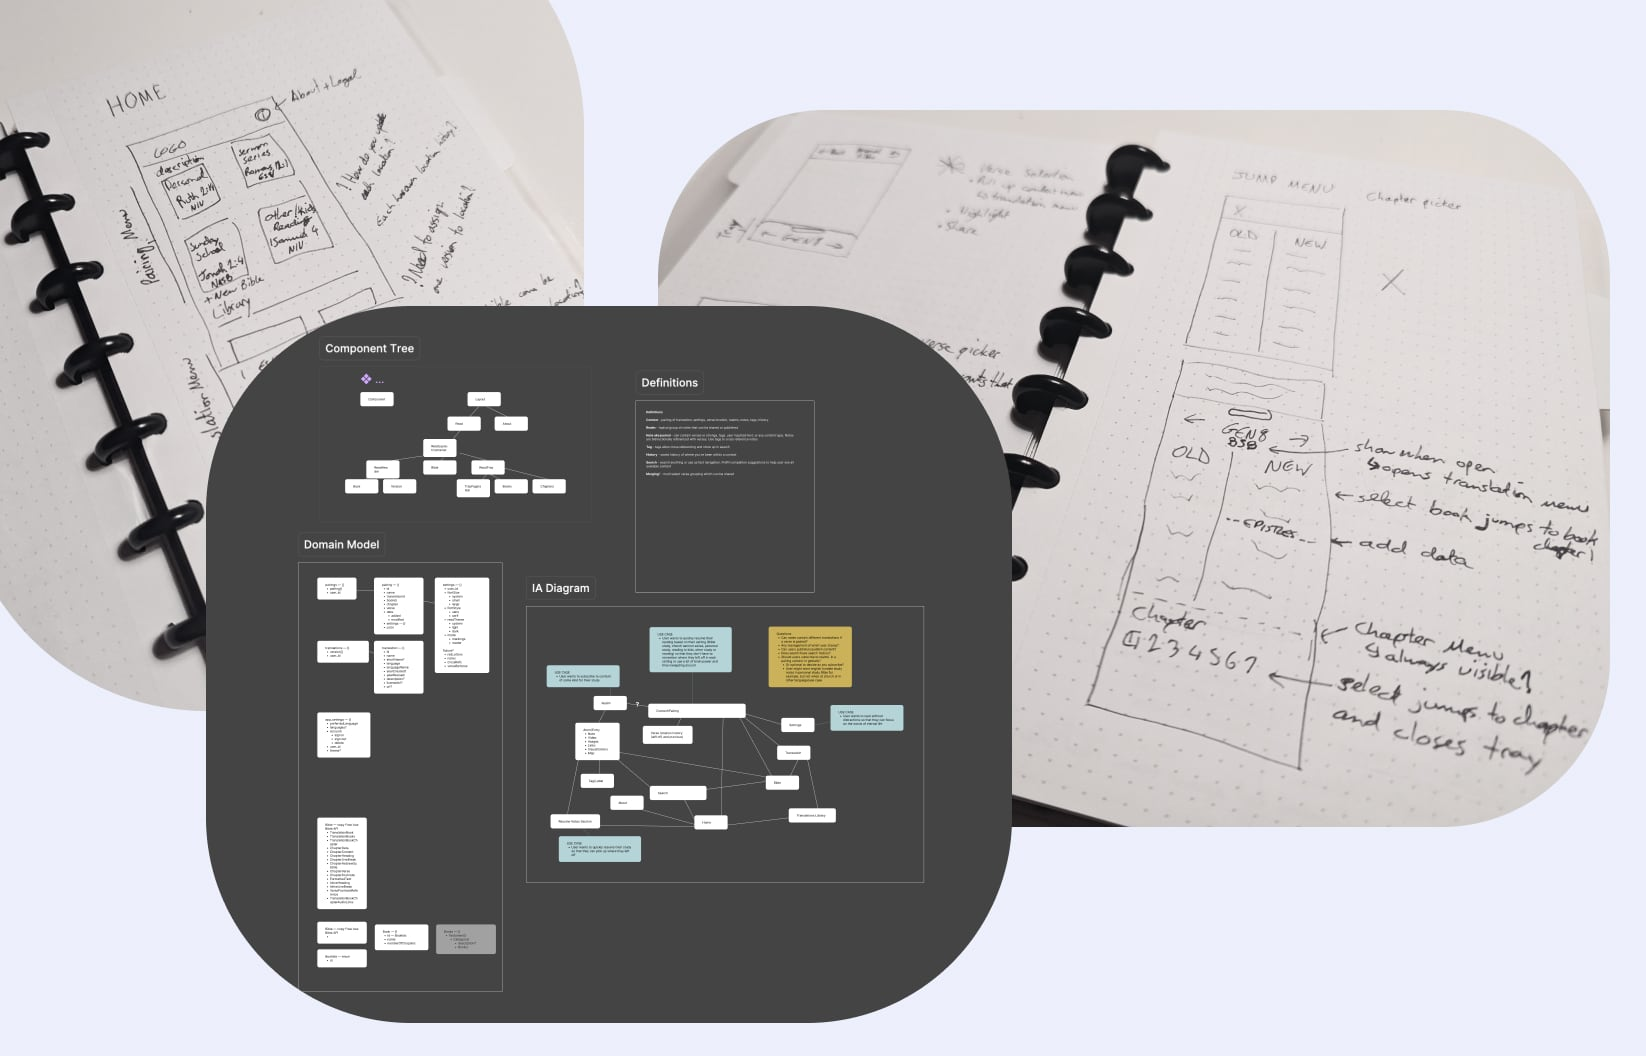
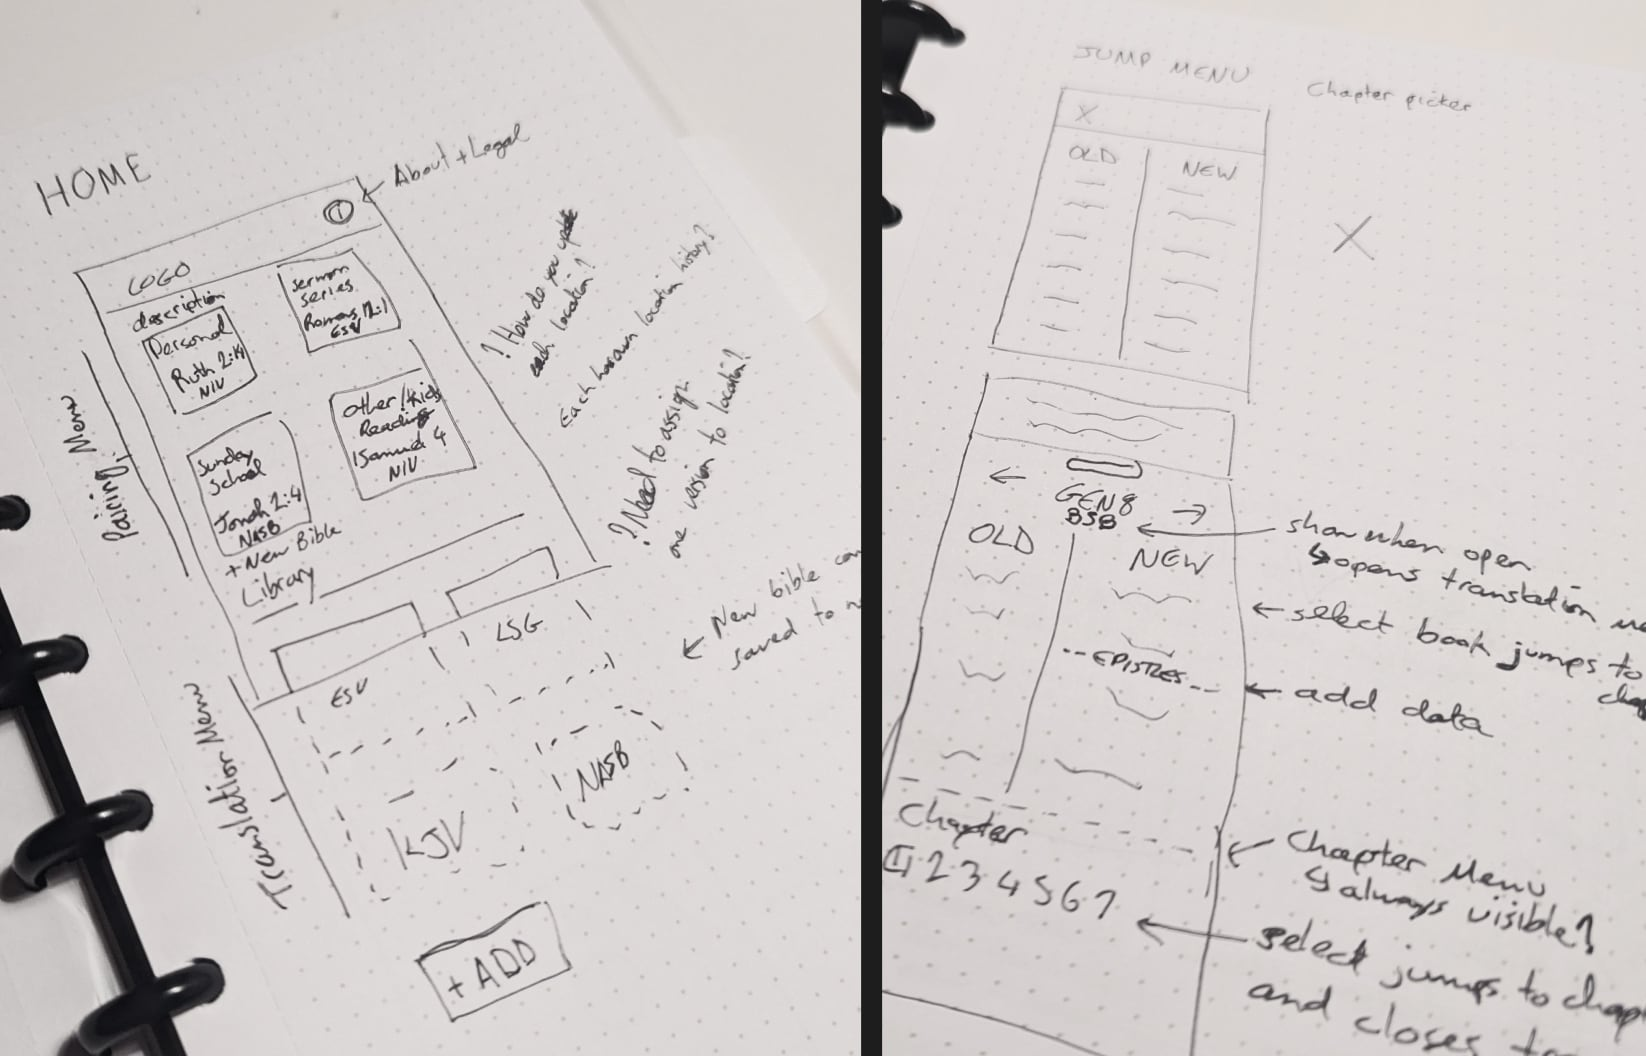
Case study improvements

diff --git a/src/app/work/eternity-bible/data.ts b/src/app/work/eternity-bible/data.ts
@@ -265,7 +265,7 @@ export const finalDesignsImages: CaseStudyGalleryImage[] = [
 
 export const resultsData: CaseStudyResultsData = {
   eyebrow: 'Impact',
-  title: 'Project Results',
+  // title: 'Project Results',
   description: `Eternity Bible is receiving overwhelmingly positive feedback for its core, innovative feature: the ability to set up multiple, personalized Bibles for different purposes (e.g., personal devotion, family study, Sunday service). Users describe this as a "fantastic" and "game changer" feature that simplifies navigation and allows them to instantly pick up right where they left off in any context.
 
   The app is organically growing a team with five users who have offered to help with the app with their own time and skills after having seen the value for themselves.`,
@@ -279,11 +279,11 @@ export const conclusionSection: CaseStudySectionData = {
 }
 
 export const digitalBibleBenefits: CardItem[] = [
-  'Can read in the dark',
-  'Can hold with children in your arms',
-  'Always in your pocket',
+  // 'Can read in the dark',
+  // 'Can hold with children in your arms',
+  // 'Always in your pocket',
   'Adapts to your setting',
   'Remembers for you',
-  'Many Bibles without the weight',
+  // 'Many Bibles without the weight',
   'Quicker to find a verse',
 ].map((title) => ({ title }))

diff --git a/src/app/work/eternity-bible/page.tsx b/src/app/work/eternity-bible/page.tsx
@@ -30,6 +30,8 @@ import {
   resultsData,
   featureMultipleLanguages,
   designProcessImages,
+  conclusionSection,
+  digitalBibleBenefits,
 } from './data'
 
 export default function EternityCaseStudy() {
@@ -37,11 +39,16 @@ export default function EternityCaseStudy() {
     <CaseStudyPageWrapper>
       <CaseStudyHero data={heroData} />
 
+      <CaseStudyResults data={resultsData} />
+
       <CaseStudyOverview data={overviewData} />
 
       <CaseStudyCards section={problemSection} items={painPoints} />
 
-      <CaseStudyStrategyGoals section={strategySection} items={strategyOutcomes} />
+      <CaseStudyStrategyGoals
+        section={strategySection}
+        items={strategyOutcomes}
+      />
 
       <CaseStudyCards section={principlesSection} items={productPrinciples} />
 
@@ -64,11 +71,10 @@ export default function EternityCaseStudy() {
         images={finalDesignsImages}
       />
 
-      {/* <CaseStudyCards
+      <CaseStudyCards
         section={conclusionSection}
         items={digitalBibleBenefits}
-      /> */}
-      <CaseStudyResults data={resultsData} />
+      />
     </CaseStudyPageWrapper>
   )
 }

diff --git a/src/app/work/components/CaseStudySection.tsx b/src/app/work/components/CaseStudySection.tsx
@@ -17,15 +17,14 @@ export function CaseStudySection({
   className,
 }: CaseStudySectionProps) {
   return (
-    <Section
-      gap={SectionGap.lg}
-      className={className}
-    >
-      <SectionHeader align="left">
-        <Eyebrow color="accent">{data.eyebrow}</Eyebrow>
-        <H2>{data.title}</H2>
+    <Section gap={SectionGap.lg} className={className}>
+      <SectionHeader align='left'>
+        <Eyebrow color='accent'>{data.eyebrow}</Eyebrow>
+        {data.title != null && data.title !== '' && <H2>{data.title}</H2>}
         {data.description != null && data.description !== '' && (
-          <Body color="secondary" style={{ whiteSpace: 'pre-line' }}>{data.description}</Body>
+          <Body color='secondary' style={{ whiteSpace: 'pre-line' }}>
+            {data.description}
+          </Body>
         )}
       </SectionHeader>
       {children}

diff --git a/src/app/work/designer/page.tsx b/src/app/work/designer/page.tsx
@@ -33,6 +33,8 @@ export default function DesignerPage() {
     <CaseStudyPageWrapper>
       <CaseStudyHero data={heroData} />
 
+      <CaseStudyResults data={resultsData} />
+
       <CaseStudyOverview data={overviewData} />
 
       <CaseStudyCards section={problemSection} items={painPoints} />
@@ -70,7 +72,6 @@ export default function DesignerPage() {
         </div>
       </CaseStudyImageGallery>
 
-      <CaseStudyResults data={resultsData} />
       <CaseStudySection data={conclusionSection} />
     </CaseStudyPageWrapper>
   )

diff --git a/src/app/work/designer/data.ts b/src/app/work/designer/data.ts
@@ -265,8 +265,8 @@ export const finalDesignsImages: CaseStudyGalleryImage[] = [
 ]
 
 export const resultsData: CaseStudyResultsData = {
-  eyebrow: 'Results',
-  title: 'Project Results',
+  eyebrow: 'Impact',
+  // title: 'Project Results',
   description: `Adoption of the Designer has continued to grow year over year. The success of this tool from the beginning set off the plan for creating more apps just like this one and saved the card product line from being discontinued.`,
   results: designerResults,
 }

diff --git a/src/app/work/components/CaseStudyResults.tsx b/src/app/work/components/CaseStudyResults.tsx
@@ -9,9 +9,7 @@ export interface CaseStudyResultsProps {
 export function CaseStudyResults({ data }: CaseStudyResultsProps) {
   const { eyebrow, title, description, results } = data
   return (
-    <CaseStudySection
-      data={{ eyebrow, title, description }}
-    >
+    <CaseStudySection data={{ eyebrow, title: title ?? '', description }}>
       <div className={styles.resultsGrid}>
         {results.map((result, i) => (
           <div key={i} className={styles.resultCard}>

diff --git a/src/app/work/components/types.ts b/src/app/work/components/types.ts
@@ -82,7 +82,7 @@ export interface CaseStudyGalleryImage {
 
 export interface CaseStudyResultsData {
   eyebrow: string
-  title: string
+  title?: string
   description: string
   results: CaseStudyResult[]
 }
